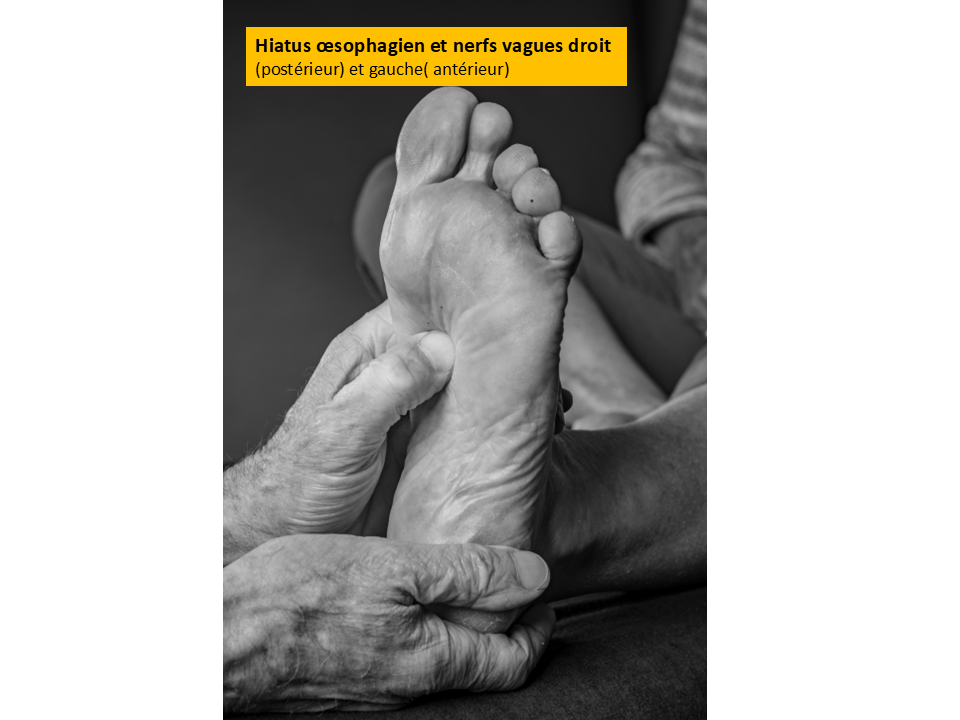
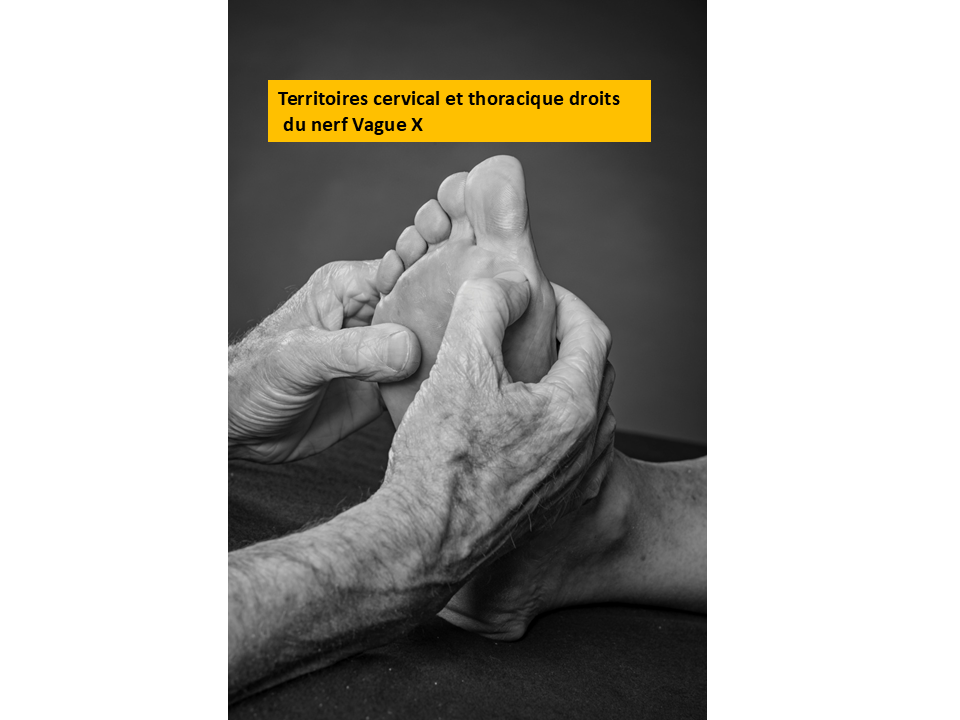
Fix Chapter 4 rework reflex alignment

diff --git a/content/chapter4-rework.slidesync.ts b/content/chapter4-rework.slidesync.ts
@@ -97,7 +97,7 @@ export const chapter4ReworkSlideAnchors = [
   { sectionId: 'systeme-nerveux-intrinseque-ou-enterique-sne', blockIndex: -1, slide: 31 },
   { sectionId: 'glandes-surrenales', blockIndex: -1, slide: 32 },
   { sectionId: 'glandes-surrenales', blockIndex: 6, slide: 33, ...endAt('glandes-surrenales', 8) },
-  { sectionId: 'zones-reflexes-podales', blockIndex: -1, slide: 34, gapBefore: 'half' as const },
+  { sectionId: 'zones-reflexes-podales', blockIndex: -1, slide: 34 },
   {
     sectionId: 'zones-reflexes-podales',
     blockIndex: 1,
@@ -113,8 +113,9 @@ export const chapter4ReworkSlideAnchors = [
     slide: 38,
     ...endAt('zones-reflexes-podales', 11),
   },
-  { sectionId: 'zones-reflexes-podales', blockIndex: 11, slide: 39, ...endAt('zones-reflexes-podales', 15) },
-  // The right-vagus cartography is intentionally solo after removal of its former companion.
+  // The left-vagus cartography remains solo until its correct companion photo is available.
+  { sectionId: 'zones-reflexes-podales', blockIndex: 11, slide: 39, ...endAt('zones-reflexes-podales', 14) },
+  // The updated slide-11 photo now accompanies the right-vagus cartography.
   { sectionId: 'zones-reflexes-podales', blockIndex: 14, slide: 40, ...endAt('zones-reflexes-podales', 15) },
   { sectionId: 'zones-reflexes-podales', blockIndex: 15, slide: 41, ...endAt('zones-reflexes-podales', 20) },
   { sectionId: 'zones-reflexes-podales', blockIndex: 20, slide: 42, ...endAt('zones-reflexes-podales', 24) },
@@ -127,4 +128,8 @@ export const chapter4ReworkSlideAnchors = [
   { sectionId: 'zones-reflexes-podales', blockIndex: 51, slide: 49, ...endAt('zones-reflexes-podales', 54) },
   // Ends after the paired photo and before 11.16. Système nerveux intrinsèque ou entérique (SNE).
   { sectionId: 'zones-reflexes-podales', blockIndex: 54, slide: 50, ...endAt('zones-reflexes-podales', 55) },
+]
+
+export const chapter4ReworkHalfBreaks = [
+  { sectionId: 'zones-reflexes-podales', blockIndex: 0 },
 ]

diff --git a/app/lecture/chapitre-4-rework/page.tsx b/app/lecture/chapitre-4-rework/page.tsx
@@ -7,7 +7,7 @@ import SlideSyncReader from '@/components/SlideSyncReader'
 import { getServerLang } from '@/app/i18n/serverLang'
 import { translations } from '@/app/i18n/translations'
 import { chapter4ReworkFr } from '@/content/chapter4-rework.fr'
-import { chapter4ReworkSlides, chapter4ReworkSlideAnchors } from '@/content/chapter4-rework.slidesync'
+import { chapter4ReworkHalfBreaks, chapter4ReworkSlides, chapter4ReworkSlideAnchors } from '@/content/chapter4-rework.slidesync'
 import { DRAFT_KEY, draftBackHref } from './access'
 
 export const metadata: Metadata = { title: 'Chapitre 4 — Nouvelle édition privée — R.O.P.', description: 'Version privée allégée du chapitre 4 sur le système nerveux autonome.', robots: { index: false, follow: false } }
@@ -20,5 +20,5 @@ export default async function Chapter4ReworkPage({ searchParams }: { searchParam
   const { lang: langParam } = await searchParams
   const lang = await getServerLang(langParam)
   if (grant) recordServerEvent({ chapter: DRAFT_KEY, event: 'draft_grant_open', data: { grant, mode: 'sync' }, lang, headers: await headers() })
-  return <SlideSyncReader chapter={chapter4ReworkFr} bookTitle={`${translations[lang].reader.bookTitle} · Nouvelle édition privée`} slides={chapter4ReworkSlides} anchors={chapter4ReworkSlideAnchors} backHref={draftBackHref(isAdmin)} classicHref={`/chapitre-4-rework?lang=${lang}`} />
+  return <SlideSyncReader chapter={chapter4ReworkFr} bookTitle={`${translations[lang].reader.bookTitle} · Nouvelle édition privée`} slides={chapter4ReworkSlides} anchors={chapter4ReworkSlideAnchors} halfBreaks={chapter4ReworkHalfBreaks} backHref={draftBackHref(isAdmin)} classicHref={`/chapitre-4-rework?lang=${lang}`} />
 }

diff --git a/content/chapter4-rework.fr.ts b/content/chapter4-rework.fr.ts
@@ -57,7 +57,7 @@ appendPrivatePhotos('11.3. Nerf vague X — étage cervical', [
   privateReflexPhoto('09', 'sinus carotidien'),
 ])
 appendPrivatePhotos('11.4. Nerf vague X — étage thoracique / plexus cardiaque', [
-  privateReflexPhoto('11', 'territoires cervical, thoracique et diaphragmatique gauches du nerf vague X', 'portrait'),
+  privateReflexPhoto('11', 'territoires cervical et thoracique droits du nerf vague X', 'portrait'),
 ])
 appendPrivatePhotos('11.5. Nerf vague X — étage diaphragmatique / hiatus œsophagien', [
   privateReflexPhoto('16', 'hiatus œsophagien et nerfs vagues droit et gauche', 'portrait'),
